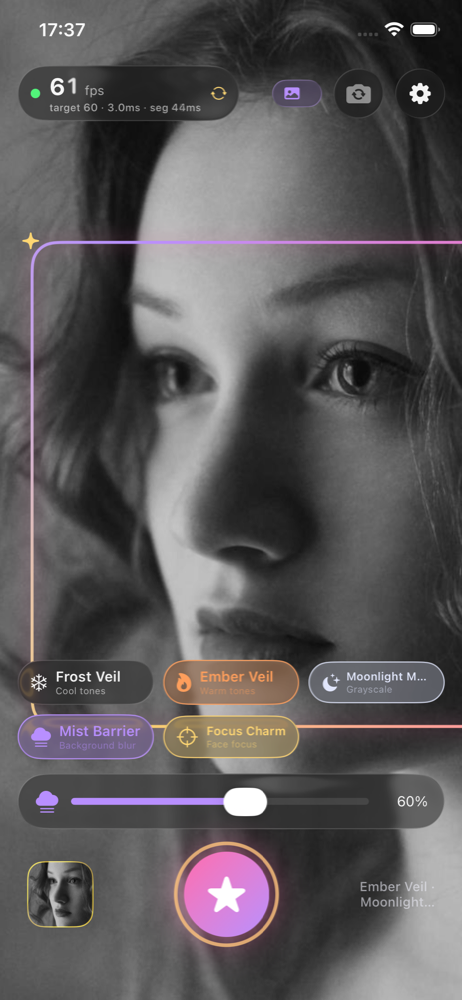
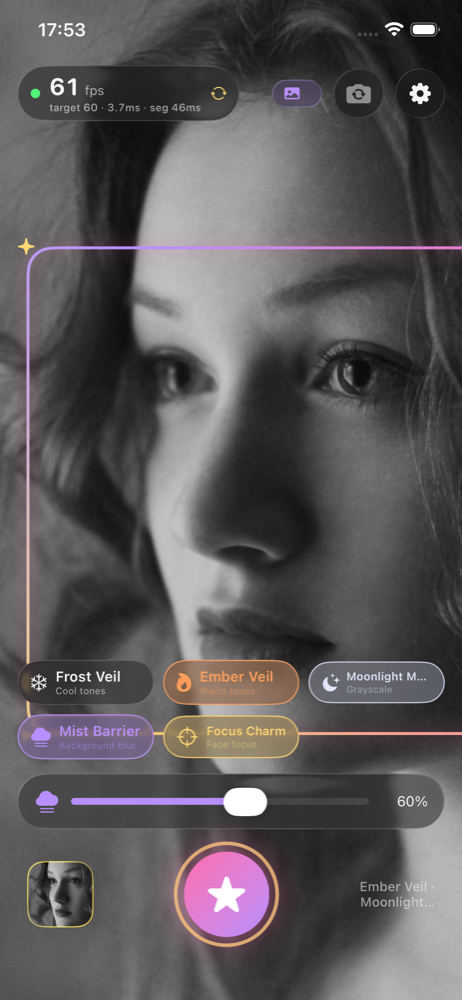
Maho Lens: render queue with one-frame mailbox; freeze the Settings performance report
Kyle noticed the dial read a steady 60 on the viewfinder while the report inside Settings
said 45 with capture at 42. The sheet occludes the Metal layer, the system withholds
drawables, and rendering on the capture queue blocked the camera delegate. Rendering now
runs on its own queue fed by a one-frame mailbox so capture never stalls, and the report is
captured as Settings opens. Device evidence recorded: 60 fps at the 60 setting with Mist
Barrier (render 2.0 ms, segmentation 10 ms).

diff --git a/Maho Lens/Rendering/MetalPreviewView.swift b/Maho Lens/Rendering/MetalPreviewView.swift
@@ -30,6 +30,10 @@ final class PreviewRenderer: NSObject, MTKViewDelegate, @unchecked Sendable {
     /// drawable pool paces presentation to the display's refresh.
     private weak var metalLayer: CAMetalLayer?
     private var drawableSize = CGSize.zero
+    /// Rendering runs here, fed by a one-frame mailbox, so waiting for a drawable (for example while
+    /// a sheet covers the preview) never stalls the camera's delegate queue.
+    private let renderQueue = DispatchQueue(label: "com.kylezhao.MahoLens.render", qos: .userInteractive)
+    private var isRenderScheduled = false
 
     init(spellRenderer: SpellRenderer = SpellRenderer(), monitor: PerformanceMonitor) {
         self.spellRenderer = spellRenderer
@@ -47,26 +51,44 @@ final class PreviewRenderer: NSObject, MTKViewDelegate, @unchecked Sendable {
         }
     }
 
-    /// Called on the source's queue for every frame. Renders immediately.
+    /// Called on the source's queue for every frame. Drops the frame in the mailbox and returns at once.
     func enqueue(_ frame: VideoFrame) {
-        let (layer, size, mask, spells) = lock.withLock { () -> (CAMetalLayer?, CGSize, CIImage?, SpellState) in
+        let shouldSchedule = lock.withLock { () -> Bool in
             pendingFrame = frame
             hasNewFrame = true
             frameSize = frame.size
-            return (metalLayer, drawableSize, self.mask, self.spells)
+            if isRenderScheduled { return false }
+            isRenderScheduled = true
+            return true
         }
         monitor.recordCapture(at: frame.timestamp)
-        guard let layer, size != .zero, let commandQueue else { return }
-        // Blocks when all drawables are in flight, which paces us to the display without dropping
-        // more than the camera already discards for late frames.
-        guard let drawable = layer.nextDrawable(), let commandBuffer = commandQueue.makeCommandBuffer() else { return }
-        let start = CACurrentMediaTime()
-        let image = spellRenderer.apply(.init(image: CIImage(cvPixelBuffer: frame.pixelBuffer), mask: mask, spells: spells))
-        spellRenderer.render(image, to: drawable.texture, commandBuffer: commandBuffer, size: size)
-        commandBuffer.present(drawable)
-        commandBuffer.commit()
-        lock.withLock { hasNewFrame = false }
-        monitor.recordPreview(at: CACurrentMediaTime(), milliseconds: (CACurrentMediaTime() - start) * 1000)
+        if shouldSchedule {
+            renderQueue.async { [weak self] in self?.renderPendingFrames() }
+        }
+    }
+
+    /// Renders the newest frame, then any frame that arrived meanwhile, then goes idle.
+    private func renderPendingFrames() {
+        while true {
+            let (frame, layer, size, mask, spells) = lock.withLock { () -> (VideoFrame?, CAMetalLayer?, CGSize, CIImage?, SpellState) in
+                guard hasNewFrame, let pendingFrame else {
+                    isRenderScheduled = false
+                    return (nil, nil, .zero, nil, self.spells)
+                }
+                hasNewFrame = false
+                return (pendingFrame, metalLayer, drawableSize, self.mask, self.spells)
+            }
+            guard let frame else { return }
+            guard let layer, size != .zero, let commandQueue else { continue }
+            // Waits here when all drawables are in flight (display pacing) or the layer is occluded.
+            guard let drawable = layer.nextDrawable(), let commandBuffer = commandQueue.makeCommandBuffer() else { continue }
+            let start = CACurrentMediaTime()
+            let image = spellRenderer.apply(.init(image: CIImage(cvPixelBuffer: frame.pixelBuffer), mask: mask, spells: spells))
+            spellRenderer.render(image, to: drawable.texture, commandBuffer: commandBuffer, size: size)
+            commandBuffer.present(drawable)
+            commandBuffer.commit()
+            monitor.recordPreview(at: CACurrentMediaTime(), milliseconds: (CACurrentMediaTime() - start) * 1000)
+        }
     }
 
     func update(mask: CIImage?) {

diff --git a/Maho Lens/Features/Camera/CameraView.swift b/Maho Lens/Features/Camera/CameraView.swift
@@ -14,6 +14,9 @@ struct CameraView: View {
     @Environment(\.scenePhase) private var scenePhase
     @State private var showingGallery = false
     @State private var showingSettings = false
+    /// Snapshot of the metrics taken as Settings opens, so the report reflects the viewfinder and
+    /// not the occluded preview behind the sheet.
+    @State private var frozenReport = ""
 
     init(settings: AppSettings) {
         _viewModel = State(initialValue: CameraViewModel(settings: settings))
@@ -56,7 +59,7 @@ struct CameraView: View {
             viewModel.setSegmentationQuality(settings.segmentationQuality)
             Task { await viewModel.setFrameRate(settings.frameRate) }
         }) {
-            NavigationStack { SettingsView(report: viewModel.performanceReport) }
+            NavigationStack { SettingsView(report: frozenReport) }
         }
         .preferredColorScheme(.dark)
     }
@@ -82,6 +85,7 @@ struct CameraView: View {
             .accessibilityIdentifier("flipButton")
             .disabled(viewModel.isDemo)
             Button {
+                frozenReport = viewModel.performanceReport
                 showingSettings = true
             } label: {
                 Image(systemName: "gearshape.fill")

diff --git a/Maho Lens/Features/Settings/SettingsView.swift b/Maho Lens/Features/Settings/SettingsView.swift
@@ -63,6 +63,8 @@ struct SettingsView: View {
                 }
             } header: {
                 Text("Performance report")
+            } footer: {
+                Text("Captured on the viewfinder at the moment Settings opened. While this sheet covers the preview the system withholds drawables, so live numbers here would understate the real rate.")
             }
 
             Section {

diff --git a/docs/MODELS.md b/docs/MODELS.md
@@ -33,14 +33,18 @@ The dial shows preview, capture and analysis rates over a one-second window, ren
 | iPhone 16e, front camera 1920×1080 (same build) | 30 fps, Mist Barrier | 24.0 (peak 26.0) | 1.44 | 29.2 (21 analyses/s) | capture 29 fps; **below target by 1 fps** |
 | iPhone 16e, frame-driven draw via main thread | 30 fps, Mist Barrier | 30.0 (peak 31.0) | 2.77 | 15.9 (30 analyses/s) | capture 29 fps; meets target |
 | iPhone 16e, frame-driven draw via main thread | 60 fps, Mist Barrier | 46.0 (peak 61.0) | 3.31 | 25.3 (29 analyses/s) | capture 58 fps; below target: frames coalesced on the main thread |
-| iPhone 16e, direct layer rendering on the capture queue | 30 fps / 60 fps | _to be re-measured_ | | | removes the main-thread hop |
+| iPhone 16e, direct layer rendering, viewfinder dial (Kyle's screenshot, 2026-10-07 17:45) | 60 fps, Mist Barrier | **60** | 2.0 | 10 | green dot; **meets target with headroom** |
+| iPhone 16e, same build, report read inside the Settings sheet | 60 fps, Mist Barrier | 45.0 (peak 60.0) | 2.09 | 11.0 | capture fell to 42 because the occluded preview withheld drawables and the capture queue blocked on them; see bug 11 |
 
 The device reports show the GPU is not the limit (about 1 ms per frame) and the camera delivers
 29 and 58 fps. The lost frames came from the preview drawing on a display timer at the target rate:
 with capture at 29 fps and a 30 Hz timer, frames periodically land two per tick and one is skipped.
 Triggering the draw per frame through the main thread fixed 30 fps (30.0) but still lost frames at
 60 (46.0): when SwiftUI kept the main thread busy for more than a frame, two captured frames
-coalesced into one draw. Rendering now goes straight into the view's `CAMetalLayer` on the capture
-queue, where `nextDrawable()` paces presentation to the display.
+coalesced into one draw. Rendering now goes straight into the view's `CAMetalLayer` from a dedicated render queue fed by
+a one-frame mailbox, where `nextDrawable()` paces presentation to the display without ever
+blocking the camera's delegate. On the viewfinder the dial reads 60 fps at the 60 setting and 30 at
+the 30 setting with Mist Barrier active, so both thresholds are met with margin. The report in
+Settings is frozen at the moment the sheet opens for the same reason.
 
 The 25 fps (at 30) and 50 fps (at 60) thresholds are encoded in `FrameRateSetting.minimumAcceptable` and drive the dial colour.

diff --git a/docs/BUGS.md b/docs/BUGS.md
@@ -13,7 +13,8 @@
 | 7 | Spell chips overflowed the screen in a horizontal row | UI test could not reach Mist Barrier | Three-column grid, all five spells visible |
 | 8 | Settings sheet failed to present right after dismissing the gallery sheet | UI test | Test waits for dismissal; the two sheets are independent state |
 | 9 | Preview rate fell 4–5 fps below the capture rate on device (50 vs 58 at 60 fps, 24 vs 29 at 30 fps) although rendering took ~1 ms | Device performance reports | The MTKView drew on a display timer at the target rate, beating against the camera's rate; rendering is now triggered per captured frame |
-| 10 | After the per-frame fix, 60 fps still read 46 while capture was 58 | Second device report | Draw calls hopped through the main thread and coalesced when SwiftUI was busy; rendering now goes directly into the Metal layer on the capture queue |
+| 10 | After the per-frame fix, 60 fps still read 46 while capture was 58 | Second device report | Draw calls hopped through the main thread and coalesced when SwiftUI was busy; rendering now goes directly into the Metal layer |
+| 11 | Performance report inside Settings read 45 fps with capture at 42 while the viewfinder showed a steady 60 | Kyle noticed the dial was fine with the sheet closed | The occluded Metal layer withholds drawables, and rendering on the capture queue blocked the camera delegate. Rendering moved to its own queue behind a one-frame mailbox, and the report is frozen as Settings opens |
 
 ## Known issues
 
